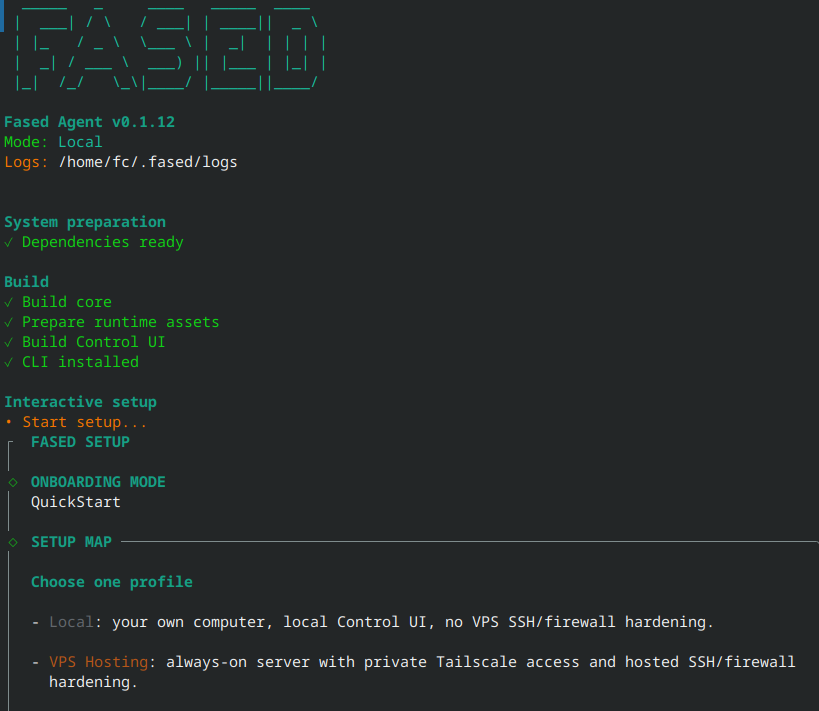
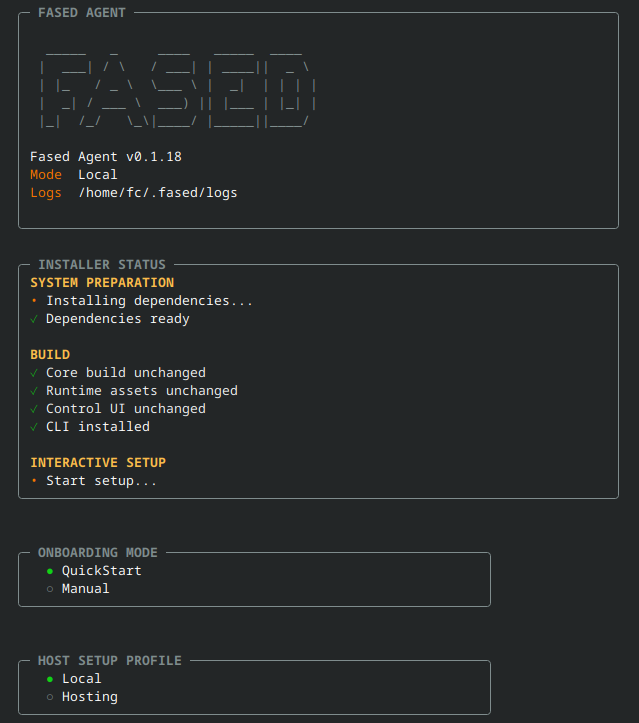
docs: refresh local walkthrough screenshots

diff --git a/docs/start/agent-wallet-mining-walkthrough.md b/docs/start/agent-wallet-mining-walkthrough.md
@@ -89,9 +89,18 @@ Choose the setup profile first.
     fased dashboard
     ```
 
+    Screenshot: the local installer starts with the Fased Agent header,
+    installer status, and the first Local profile choices.
+
     ![Local installer selecting the Local profile](/images/screenshots/local/local-ui-1.png)
 
+    Screenshot: if an existing local config is detected, review the workspace,
+    model, gateway mode, and loopback bind before continuing.
+
     ![Local QuickStart gateway settings](/images/screenshots/local/local-ui-2.png)
+
+    Screenshot: setup finishes by printing the local dashboard URL, token
+    backup, and health summary.
 
     ![Local dashboard link printed after setup](/images/screenshots/local/final-ui-1.png)
 
@@ -203,6 +212,9 @@ you already know you need separate work profiles.
 If you choose chat channels during onboarding, the terminal wizard can collect
 the channel token. You can skip this and add channels later.
 
+Screenshot: optional chat channel setup can collect a Telegram bot token during
+onboarding, or you can finish and add channels later.
+
 ![Telegram channel setup during onboarding](/images/screenshots/local/chat-ui-1.png)
 
 Read next:
@@ -218,6 +230,9 @@ Add a model provider key or sign in, then choose a primary model. Send a first
 test message from **Chat** before moving into wallet or mining flows.
 
 ![Model selection in the Control UI](/images/screenshots/web/agent-model-2.png)
+
+Screenshot: optional model setup lets you choose a provider and authentication
+method from the terminal, including browser sign-in when supported.
 
 ![Model provider sign-in during local setup](/images/screenshots/local/model-ui-1.png)
 
@@ -248,7 +263,8 @@ or hex imports. Do not paste seed phrases into wallet import.
 
 ![Wallet cards after Agent, Mining, and Vault setup](/images/screenshots/web/wallet-1.png)
 
-![Wallet setup in the local installer](/images/screenshots/local/wallet-ui-1.png)
+Screenshot: wallet setup can create or import a Solana wallet, set the RPC URL,
+and confirm which Agent or Mining role should use it.
 
 ![Wallet role summary after local setup](/images/screenshots/local/wallet-ui-2.png)
 
